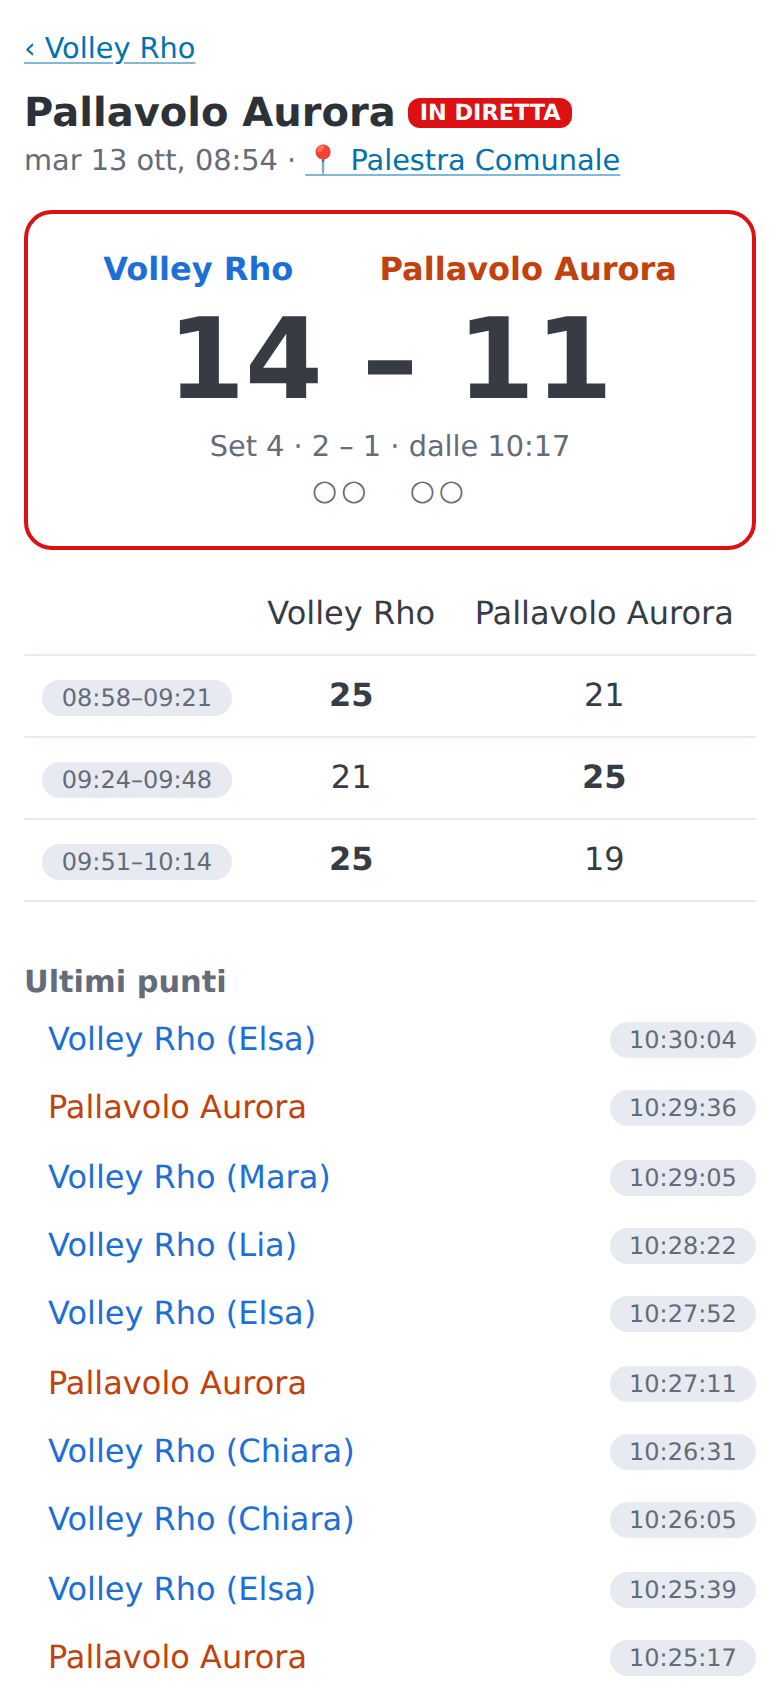
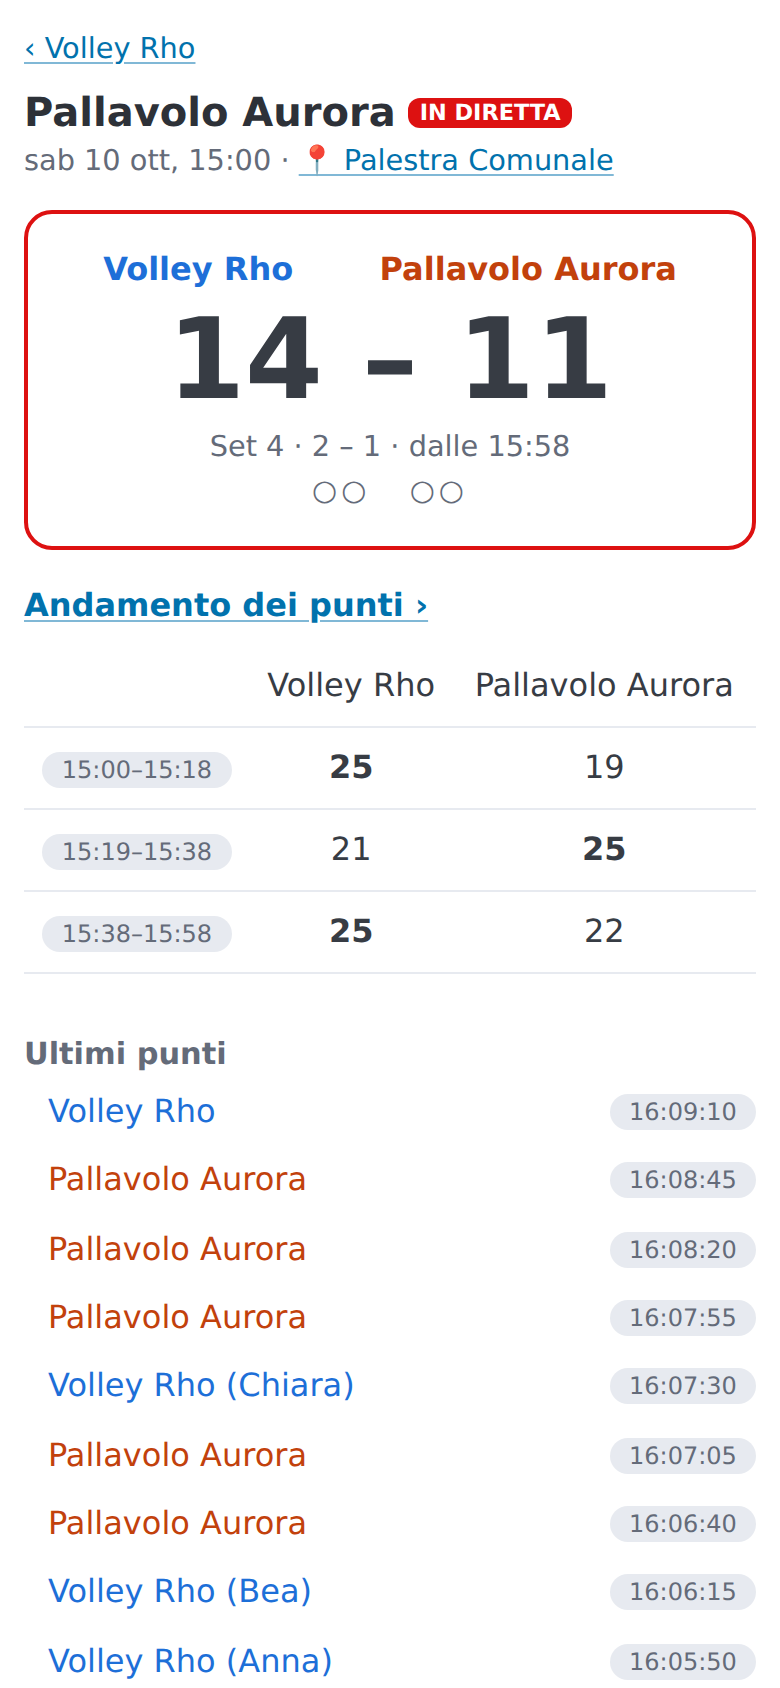
Redo the screenshots of the staff screen and the family page
The staff screen now asks who scored the last point, with large three-letter
names and a bar of icons, and the family page links to the chart of the points:
the old pictures showed neither. Both are taken from the example team.

diff --git a/README.md b/README.md
@@ -12,8 +12,8 @@ The example team `rho` (invented names), in Italian, the default of its team
 file. Left, what a family sees on a phone; right, the bench's scoring screen.
 
 <p>
-<img src="docs/screenshots/family.png" alt="Family page of a live match: the score 14 to 11 in the fourth set, the finished sets with their times and the latest points with their scorers" width="300">
-<img src="docs/screenshots/staff.png" alt="Staff scoring screen: one large button for each team, a button for each player to say who scored, and the set controls" width="300">
+<img src="docs/screenshots/family.png" alt="Family page of a live match: the score 14 to 11 in the fourth set, the link to the chart of the points, the finished sets with their times and the latest points with their scorers" width="300">
+<img src="docs/screenshots/staff.png" alt="Staff scoring screen: a button for each team, the question who scored the last point with a large button for each player, and the undo and the menu below" width="300">
 </p>
 
 The coach's call-up of a match, on a tablet:
